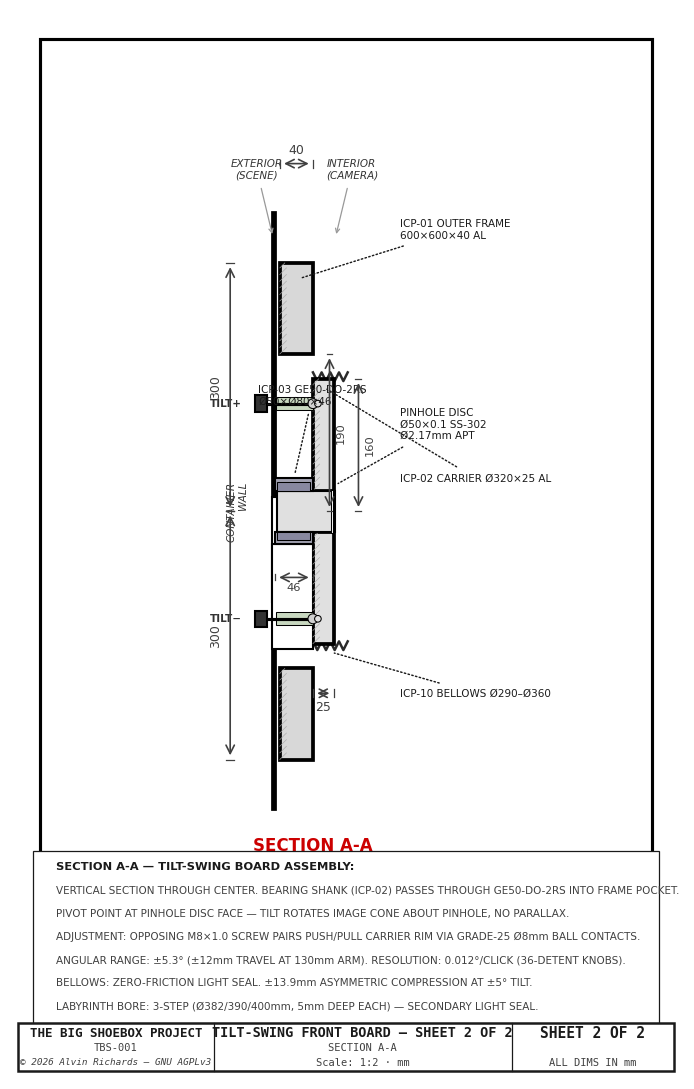
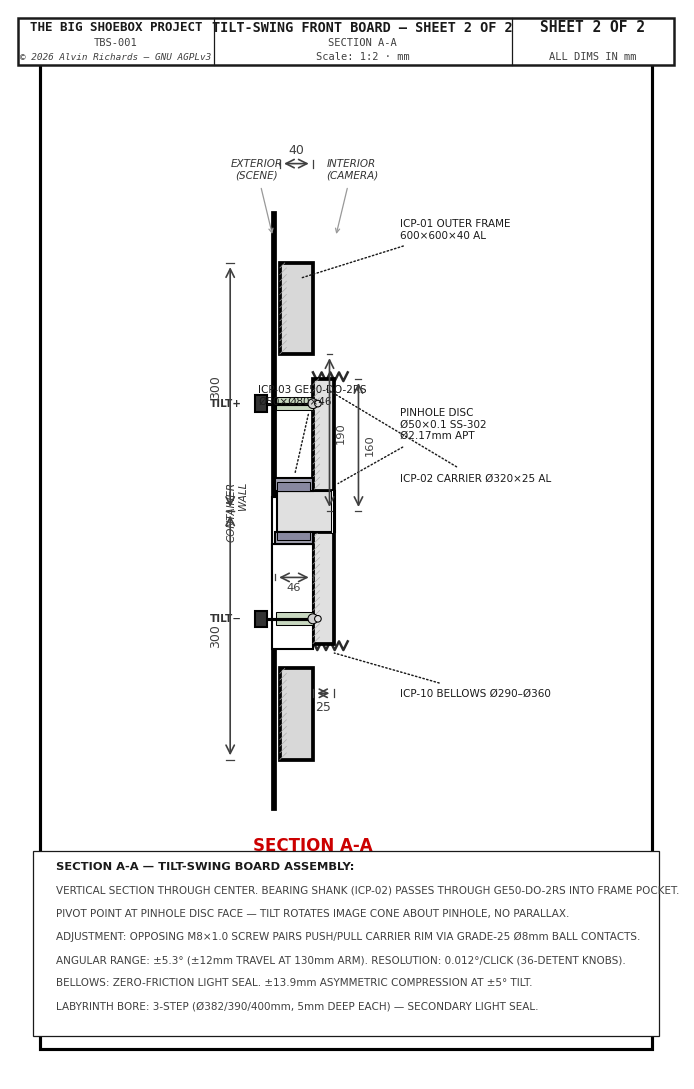
Tilt-swing sheet 2: move title block to top; add top= parameter to title_block()

Changed region(s): [[0.0, 0.0, 0.9986, 0.0624], [0.0, 0.9366, 0.9986, 0.9991]]

diff --git a/tbs_title_block.py b/tbs_title_block.py
@@ -26,8 +26,9 @@ _FONT  = {"fontfamily": "monospace"}
 
 
 def title_block(ax, sheet_label, *, drawing_title="", subtitle="",
-                scale_note="", doc_id="", height=0.045, portrait=False):
-    """Draw a standard 3-column title block at the bottom of *ax*.
+                scale_note="", doc_id="", height=0.045, portrait=False,
+                top=False):
+    """Draw a standard 3-column title block at the bottom (or top) of *ax*.
 
     Parameters
     ----------
@@ -39,9 +40,10 @@ def title_block(ax, sheet_label, *, drawing_title="", subtitle="",
     doc_id : str            left cell middle row (e.g. "TBS-001 · Hinged Panel")
     height : float          axes-fraction box height (0.045 landscape, ≥0.07 portrait)
     portrait : bool         smaller fonts for narrow portrait figures
+    top : bool              place at the top of the axes instead of the bottom
     """
     t = ax.transAxes
-    y0 = 0.003
+    y0 = (0.997 - height) if top else 0.003
     h  = height
     y1 = y0 + h
     row_top = y0 + h * 0.80

diff --git a/generate_tilt_swing_diagram.py b/generate_tilt_swing_diagram.py
@@ -567,7 +567,7 @@ def draw_sheet2():
                 subtitle="SECTION A-A",
                 scale_note="1:2 · mm",
                 doc_id="TBS-001",
-                portrait=True)
+                portrait=True, top=True)
 
     plt.tight_layout(pad=0)
     out2 = f'{DIAGRAMS_DIR}/tilt-swing-sheet2.png'
